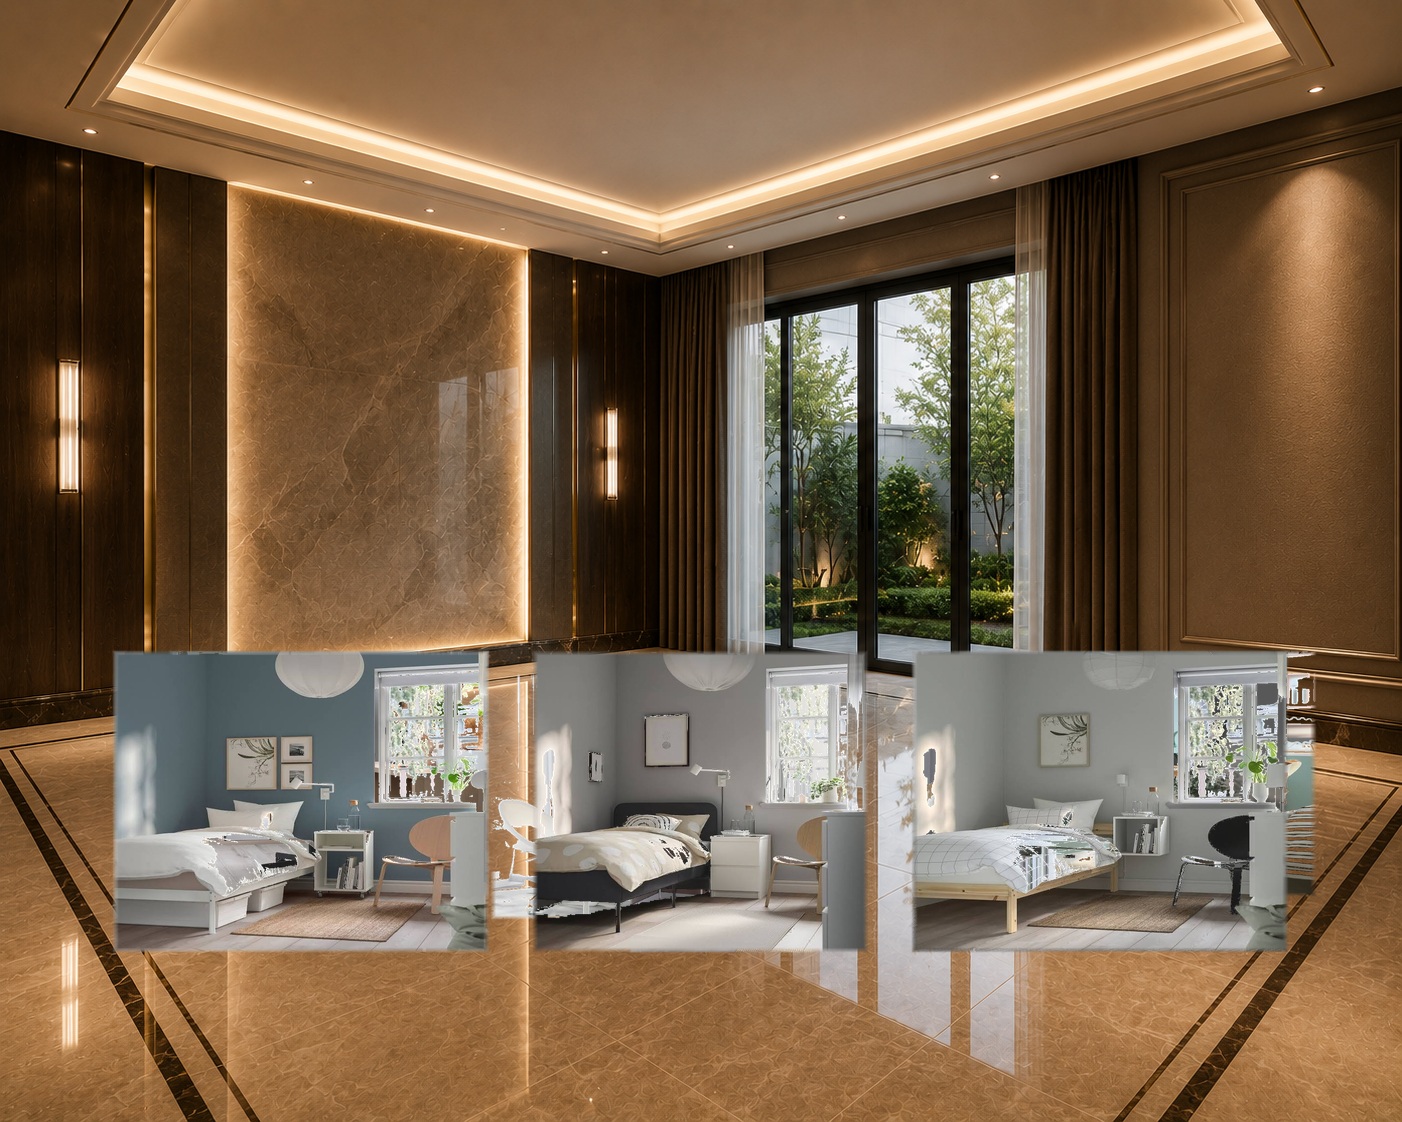
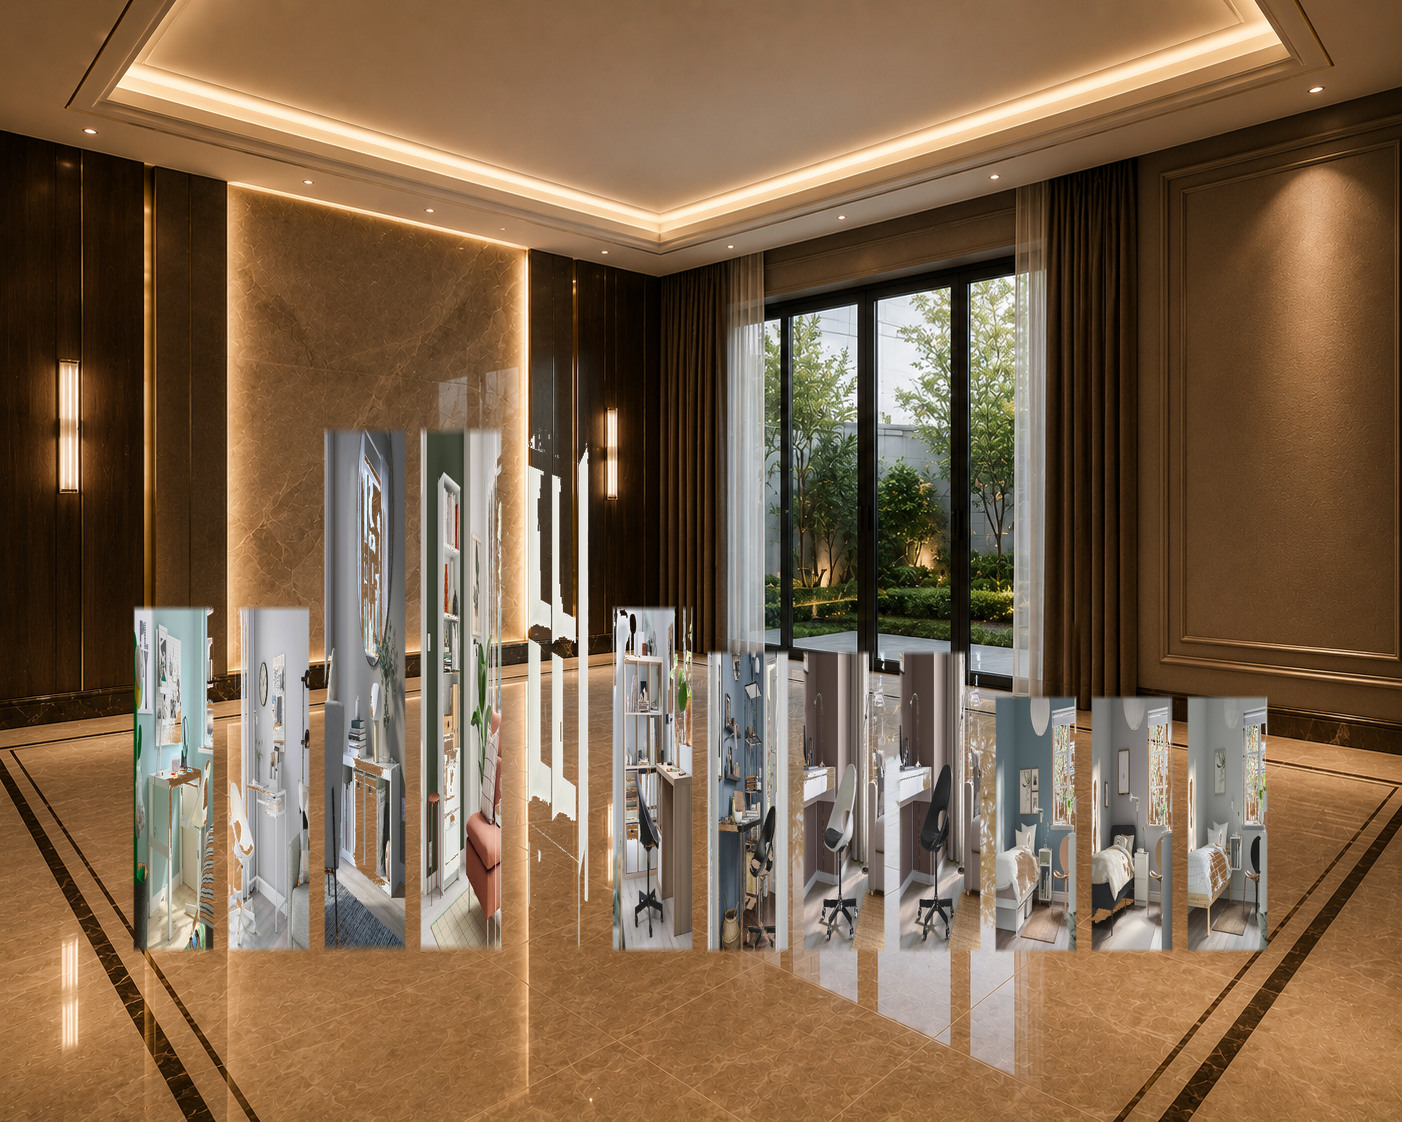
feat: implement dynamic floor columns and category height ratios to guarantee non-overlapping layouts

Changed region(s): [[0.0613, 0.3743, 0.9508, 0.8734]]

diff --git a/agents/reconstruction_agent.py b/agents/reconstruction_agent.py
@@ -194,95 +194,102 @@ class ReconstructionAgent:
                             f_color = fill_colors[idx % len(fill_colors)]
                             o_color = outline_colors[idx % len(outline_colors)]
                             
-                            # 1. Resolve dynamic coordinates based on the product category for realistic placement
+                            # 1. Resolve dynamic, non-overlapping coordinate grids to prevent overlaps
                             category = item.get("category", "").lower()
-                            
-                            # Default coordinates fallback
-                            coords = box_coords[idx % len(box_coords)]
-                            
-                            # Alternate coordinates if multiple items of same category are recommended/placed
-                            if idx == 0:
-                                if "projector screen" in category or "screen" in category:
-                                    coords = (int(width * 0.28), int(height * 0.18), int(width * 0.72), int(height * 0.44))
-                                    pos_desc = "Location: Center wall opposite bed / above headboard (Elevation: 130cm)"
-                                elif "projector" in category:
-                                    coords = (int(width * 0.14), int(height * 0.52), int(width * 0.26), int(height * 0.65))
-                                    pos_desc = "Location: Left Bedside Table (X 100cm, Y 140cm, Height 65cm)"
-                                elif "tv" in category or "television" in category:
-                                    coords = (int(width * 0.30), int(height * 0.20), int(width * 0.70), int(height * 0.46))
-                                    pos_desc = "Location: Center wall opposite bed (Elevation: 120cm)"
-                                elif "chair" in category or "stool" in category:
-                                    coords = (int(width * 0.72), int(height * 0.62), int(width * 0.88), int(height * 0.82))
-                                    pos_desc = "Location: Desk workspace area (X 310cm, Y 120cm)"
-                                elif "desk" in category or "table" in category:
-                                    coords = (int(width * 0.68), int(height * 0.58), int(width * 0.94), int(height * 0.80))
-                                    pos_desc = "Location: Study wall workspace boundary (X 310cm, Y 140cm)"
-                                elif "lamp" in category or "light" in category:
-                                    coords = (int(width * 0.16), int(height * 0.42), int(width * 0.24), int(height * 0.54))
-                                    pos_desc = "Location: Left Bedside Table surface"
+                            # Separate floor items vs wall/surface items to allocate clean, non-overlapping slots
+                            floor_items = []
+                            wall_surface_items = []
+                            for r_idx, r_item in enumerate(recommended):
+                                cat_name = r_item.get("category", "").lower()
+                                if any(k in cat_name for k in ["screen", "tv", "television", "projector", "lamp", "light"]):
+                                    wall_surface_items.append((r_idx, r_item))
                                 else:
-                                    if candidates and len(candidates) > 0:
-                                        cand = candidates[0]
-                                        cx_val = cand.get("center", {}).get("x_cm", 0)
-                                        cy_val = cand.get("center", {}).get("y_cm", 0)
-                                        pos_desc = f"Location: Empty space zone 1 (X {cx_val}cm, Y {cy_val}cm)"
-                                    else:
-                                        pos_desc = "Location: Available empty floor bounds"
-                            elif idx == 1:
-                                if "projector screen" in category or "screen" in category:
-                                    coords = (int(width * 0.32), int(height * 0.22), int(width * 0.68), int(height * 0.46))
-                                    pos_desc = "Location: Wall opposite bed (Sub-region 2, Elevation: 110cm)"
-                                elif "projector" in category:
-                                    coords = (int(width * 0.66), int(height * 0.52), int(width * 0.78), int(height * 0.65))
-                                    pos_desc = "Location: Right Bedside Table surface (X 220cm, Y 140cm)"
-                                elif "tv" in category or "television" in category:
-                                    coords = (int(width * 0.35), int(height * 0.22), int(width * 0.65), int(height * 0.44))
-                                    pos_desc = "Location: Center wall sub-mount opposite bed"
-                                elif "chair" in category or "stool" in category:
-                                    coords = (int(width * 0.60), int(height * 0.62), int(width * 0.74), int(height * 0.82))
-                                    pos_desc = "Location: Front desk chair space (X 280cm, Y 120cm)"
-                                elif "desk" in category or "table" in category:
-                                    coords = (int(width * 0.35), int(height * 0.60), int(width * 0.58), int(height * 0.82))
-                                    pos_desc = "Location: Alternative side wall desk layout boundary"
-                                elif "lamp" in category or "light" in category:
-                                    coords = (int(width * 0.68), int(height * 0.42), int(width * 0.76), int(height * 0.54))
-                                    pos_desc = "Location: Right Bedside Table surface"
-                                else:
-                                    if candidates and len(candidates) > 1:
-                                        cand = candidates[1]
-                                        cx_val = cand.get("center", {}).get("x_cm", 0)
-                                        cy_val = cand.get("center", {}).get("y_cm", 0)
-                                        pos_desc = f"Location: Empty space zone 2 (X {cx_val}cm, Y {cy_val}cm)"
-                                    else:
-                                        pos_desc = "Location: Secondary empty floor region"
+                                    floor_items.append((r_idx, r_item))
+                            
+                            is_floor_item = True
+                            target_floor_idx = 0
+                            for f_i, (orig_i, f_item) in enumerate(floor_items):
+                                if orig_i == idx:
+                                    target_floor_idx = f_i
+                                    break
                             else:
-                                if "projector screen" in category or "screen" in category:
-                                    coords = (int(width * 0.12), int(height * 0.18), int(width * 0.45), int(height * 0.44))
-                                    pos_desc = "Location: Side wall alignment (Elevation: 130cm)"
-                                elif "projector" in category:
-                                    coords = (int(width * 0.42), int(height * 0.60), int(width * 0.58), int(height * 0.72))
-                                    pos_desc = "Location: Central projector stand / floor mount"
-                                elif "tv" in category or "television" in category:
-                                    coords = (int(width * 0.12), int(height * 0.18), int(width * 0.45), int(height * 0.44))
-                                    pos_desc = "Location: Side wall mount alignments"
-                                elif "chair" in category or "stool" in category:
-                                    coords = (int(width * 0.45), int(height * 0.65), int(width * 0.58), int(height * 0.85))
-                                    pos_desc = "Location: Lounge chair alignment bounds"
-                                elif "desk" in category or "table" in category:
-                                    coords = (int(width * 0.12), int(height * 0.58), int(width * 0.35), int(height * 0.80))
-                                    pos_desc = "Location: Side wall console boundary"
-                                elif "lamp" in category or "light" in category:
-                                    coords = (int(width * 0.45), int(height * 0.55), int(width * 0.55), int(height * 0.68))
-                                    pos_desc = "Location: Center console shelf surface"
+                                is_floor_item = False
+                                
+                            if is_floor_item:
+                                num_floor = max(1, len(floor_items))
+                                floor_width_ratio = 0.82
+                                start_x_ratio = 0.09
+                                col_width = (width * floor_width_ratio) / num_floor
+                                
+                                col_start = int(width * start_x_ratio + col_width * target_floor_idx)
+                                col_end = int(width * start_x_ratio + col_width * (target_floor_idx + 1))
+                                
+                                # Visual padding to keep items separated
+                                pad_x = int(col_width * 0.08)
+                                x0 = col_start + pad_x
+                                x1 = col_end - pad_x
+                                
+                                # Set Y0 (top) coordinate based on category proportions for realistic heights
+                                if any(k in category for k in ["bookshelf", "wardrobe", "cabinet", "shelf"]):
+                                    y0 = int(height * 0.38) # Tall bookcase stands high
+                                    pos_desc = f"Location: Dedicated floor bookshelf zone {target_floor_idx + 1}"
+                                elif any(k in category for k in ["desk", "table"]):
+                                    y0 = int(height * 0.54) # Workspace height
+                                    pos_desc = f"Location: Workspace table area slot {target_floor_idx + 1}"
+                                elif any(k in category for k in ["chair", "stool"]):
+                                    y0 = int(height * 0.58) # Swivel chair height
+                                    pos_desc = f"Location: Work chair slot {target_floor_idx + 1}"
                                 else:
-                                    if candidates and len(candidates) > 2:
-                                        cand = candidates[2]
-                                        cx_val = cand.get("center", {}).get("x_cm", 0)
-                                        cy_val = cand.get("center", {}).get("y_cm", 0)
-                                        pos_desc = f"Location: Empty space zone 3 (X {cx_val}cm, Y {cy_val}cm)"
+                                    y0 = int(height * 0.62) # Low bed frame/sofa height
+                                    pos_desc = f"Location: Floor alignment bounds slot {target_floor_idx + 1}"
+                                    
+                                y1 = int(height * 0.85) # Floor line base
+                                coords = (x0, y0, x1, y1)
+                            else:
+                                # Wall/Surface items (screens, lamps, projectors)
+                                screen_idx = 0
+                                proj_idx = 0
+                                lamp_idx = 0
+                                
+                                for orig_i, f_item in wall_surface_items:
+                                    if orig_i == idx:
+                                        break
+                                    f_cat = f_item.get("category", "").lower()
+                                    if "screen" in f_cat or "tv" in f_cat or "television" in f_cat:
+                                        screen_idx += 1
+                                    elif "projector" in f_cat:
+                                        proj_idx += 1
+                                    elif "lamp" in f_cat or "light" in f_cat:
+                                        lamp_idx += 1
+                                        
+                                if "screen" in category or "tv" in category or "television" in category:
+                                    # Shift slightly if multiple screens exist
+                                    shift_x = screen_idx * int(width * 0.05)
+                                    x0 = int(width * 0.28) + shift_x
+                                    x1 = int(width * 0.72) + shift_x
+                                    y0 = int(height * 0.16)
+                                    y1 = int(height * 0.42)
+                                    coords = (x0, y0, x1, y1)
+                                    pos_desc = f"Location: Main wall mounting surface (Offset: {screen_idx})"
+                                elif "projector" in category:
+                                    # Toggle left/right bedside tables
+                                    if proj_idx % 2 == 0:
+                                        coords = (int(width * 0.12), int(height * 0.50), int(width * 0.24), int(height * 0.62))
+                                        pos_desc = "Location: Left Bedside Table projector surface"
                                     else:
-                                        pos_desc = "Location: Tertiary empty floor region"
-                            
+                                        coords = (int(width * 0.76), int(height * 0.50), int(width * 0.88), int(height * 0.62))
+                                        pos_desc = "Location: Right Bedside Table projector surface"
+                                elif "lamp" in category or "light" in category:
+                                    if lamp_idx % 2 == 0:
+                                        coords = (int(width * 0.78), int(height * 0.40), int(width * 0.86), int(height * 0.52))
+                                        pos_desc = "Location: Right Bedside Table lamp surface"
+                                    else:
+                                        coords = (int(width * 0.14), int(height * 0.40), int(width * 0.22), int(height * 0.52))
+                                        pos_desc = "Location: Left Bedside Table lamp surface"
+                                else:
+                                    coords = (int(width * 0.35), int(height * 0.45), int(width * 0.65), int(height * 0.75))
+                                    pos_desc = "Location: Wall shelf display alignment"
+                                    
                             item["proposed_location"] = pos_desc
 
                             # Attempt to download product image
